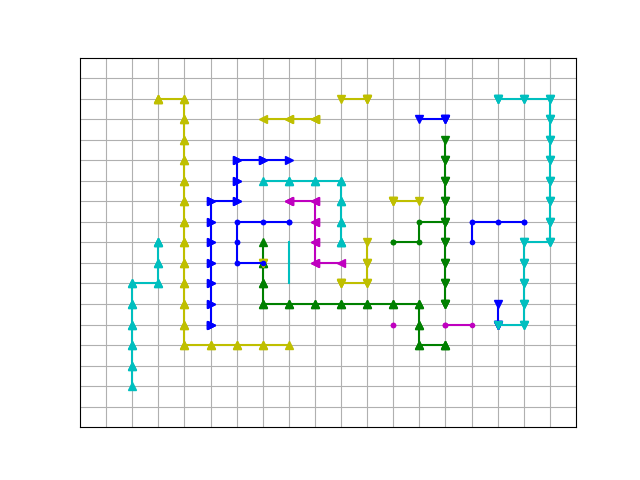
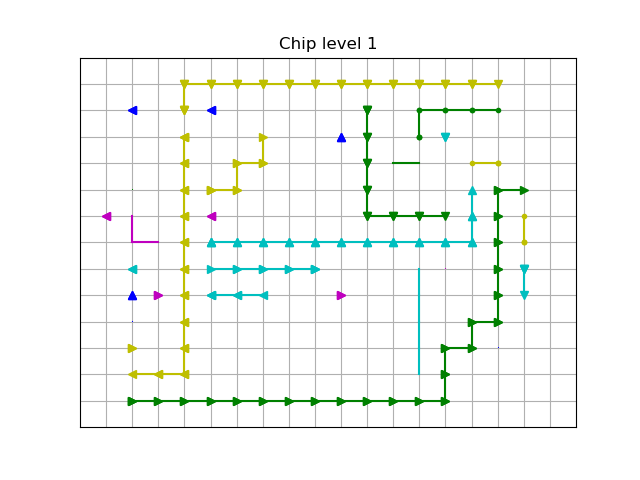
visualization example

Changed region(s): [[0.125, 0.1562, 0.9062, 0.8438], [0.4375, 0.0625, 0.5625, 0.125]]

diff --git a/main.py b/main.py
@@ -43,13 +43,18 @@ def main():
 
 	"""
 
-	population = initial_pop(population_size, circuit, width, height, algorithm, netlist)
-	while population[0][1] < len(netlist):
-		print(population[0][1], population[-1][1])
-		parents = selection(population, 8)
-		population = next_pop(7, circuit, width, height, algorithm, parents, netlist)
-		mutate_pop(population, 0.1)
-	print(population[0])
+	# population = initial_pop(population_size, circuit, width, height, algorithm, netlist)
+	# while population[0][1] < len(netlist):
+	# 	print(population[0][1], population[-1][1])
+	# 	parents = selection(population, 8)
+	# 	population = next_pop(7, circuit, width, height, algorithm, parents, netlist)
+	# 	mutate_pop(population, 0.1)
+	# print(population[0])
+
+	netlist = [(23, 8), (3, 0), (11, 24), (22, 16), (23, 4), (10, 4), (3, 5),
+	(3, 15), (9, 13), (3, 4), (1, 0), (3, 23), (7, 13), (5, 7), (15, 21),
+	(13, 18), (22, 11), (15, 8), (10, 7), (22, 13), (20, 19), (19, 2), (16, 9),
+	(15, 17), (6, 14), (15, 5), (7, 9), (19, 5), (20, 10), (2, 20)]
 
 	test(circuit, width, height, netlist, algorithm)
 	# test(circuit, width, height, netlist, greedy)
@@ -82,7 +87,7 @@ def test(circuit, width, height, netlist, algorithm):
 
 	# print grid
 	visualization.plot_3D(directory + "/results", chip, width, height)
-	# visualization.plot_grid(directory + "/results", chip, width, height)
+	visualization.plot_grid(directory + "/results", chip, width, height)
 	# visualization.print_simple_grid(chip)
 
 

diff --git a/code/algorithms/a_star.py b/code/algorithms/a_star.py
@@ -33,7 +33,7 @@ def a_star(chip, net):
 			new_cost = cost_so_far[current] + 1
 			if next not in cost_so_far or new_cost < cost_so_far[next]:
 				cost_so_far[next] = new_cost
-				priority = new_cost + heuristic(goal, next)
+				priority = new_cost + heuristic(goal, next) + gate_density(chip, next)
 				queue.put(next, priority)
 				came_from[next] = current
 
